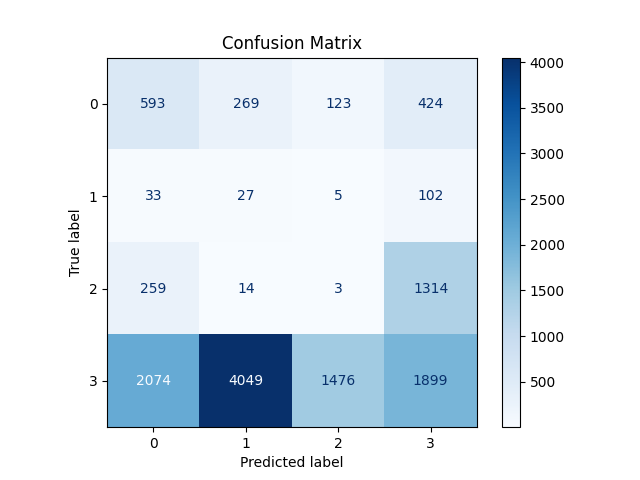
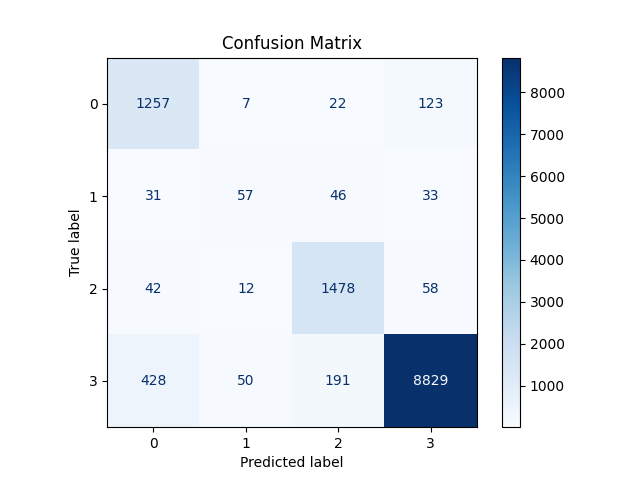
freeze PhoBERT backbone

diff --git a/live_test.py b/live_test.py
@@ -2,7 +2,7 @@ from load import load_model
 from preprocess import tokenizer, rdrsegmenter
 from config import idx2topic, idx2sentiment
 
-check_point = "absa-training-5111d82_vnsf-44.pth"
+check_point = "absa-training-18833cf_vnsf-44_norm_dropout.pth"
 model = load_model(check_point)
 model.eval()
 
@@ -50,7 +50,7 @@ model.eval()
 # ------------------------------------------
 
 
-test_sentence = "thầy dạy không có đủ chuyên môn"
+test_sentence = "phòng máy xịn"
 
 dot_separated_segmented_sentences = rdrsegmenter.word_segment(test_sentence)
 test_segmented_sentence = " ".join(dot_separated_segmented_sentences)

diff --git a/model.py b/model.py
@@ -12,6 +12,9 @@ class PhoBERTMultiHead(nn.Module):
         self.num_sentiments = num_sentiments
 
         self.phobert = AutoModel.from_pretrained(backbone_model_name)
+        # freeze backbone
+        for param in self.phobert.parameters():
+            param.requires_grad = False
 
         hidden_size = self.phobert.config.hidden_size
         self.dropout = nn.Dropout(0.1)

diff --git a/train.py b/train.py
@@ -46,6 +46,11 @@ def main(args):
         num_sentiments=len(idx2sentiment),
     ).to(device)
 
+    print("Trainable layers:")
+    for name, param in model.named_parameters():
+        if param.requires_grad:
+            print(name)
+
     optimizer = torch.optim.AdamW(model.parameters(), lr=args.learning_rate)
 
     alpha, counts = calculate_alpha(train_data, device=device)

diff --git a/calculate_metrics.py b/calculate_metrics.py
@@ -15,7 +15,7 @@ from load import load_model
 from preprocess import tokenizer
 
 DEVICE = "cuda" if torch.cuda.is_available() else "cpu"
-CHECKPOINT = "absa-training-5111d82_vnsf-44.pth"
+CHECKPOINT = "absa-training-18833cf_vnsf-44_norm_dropout.pth"
 model = load_model(CHECKPOINT)
 print("Model loaded!")
 

diff --git a/plot_history.py b/plot_history.py
@@ -19,5 +19,4 @@ plt.ylabel("Loss")
 plt.title("Training vs Validation Loss")
 plt.legend()
 plt.savefig("train_vs_val_loss.png")
-plt.show()
 print("Plot saved!")
